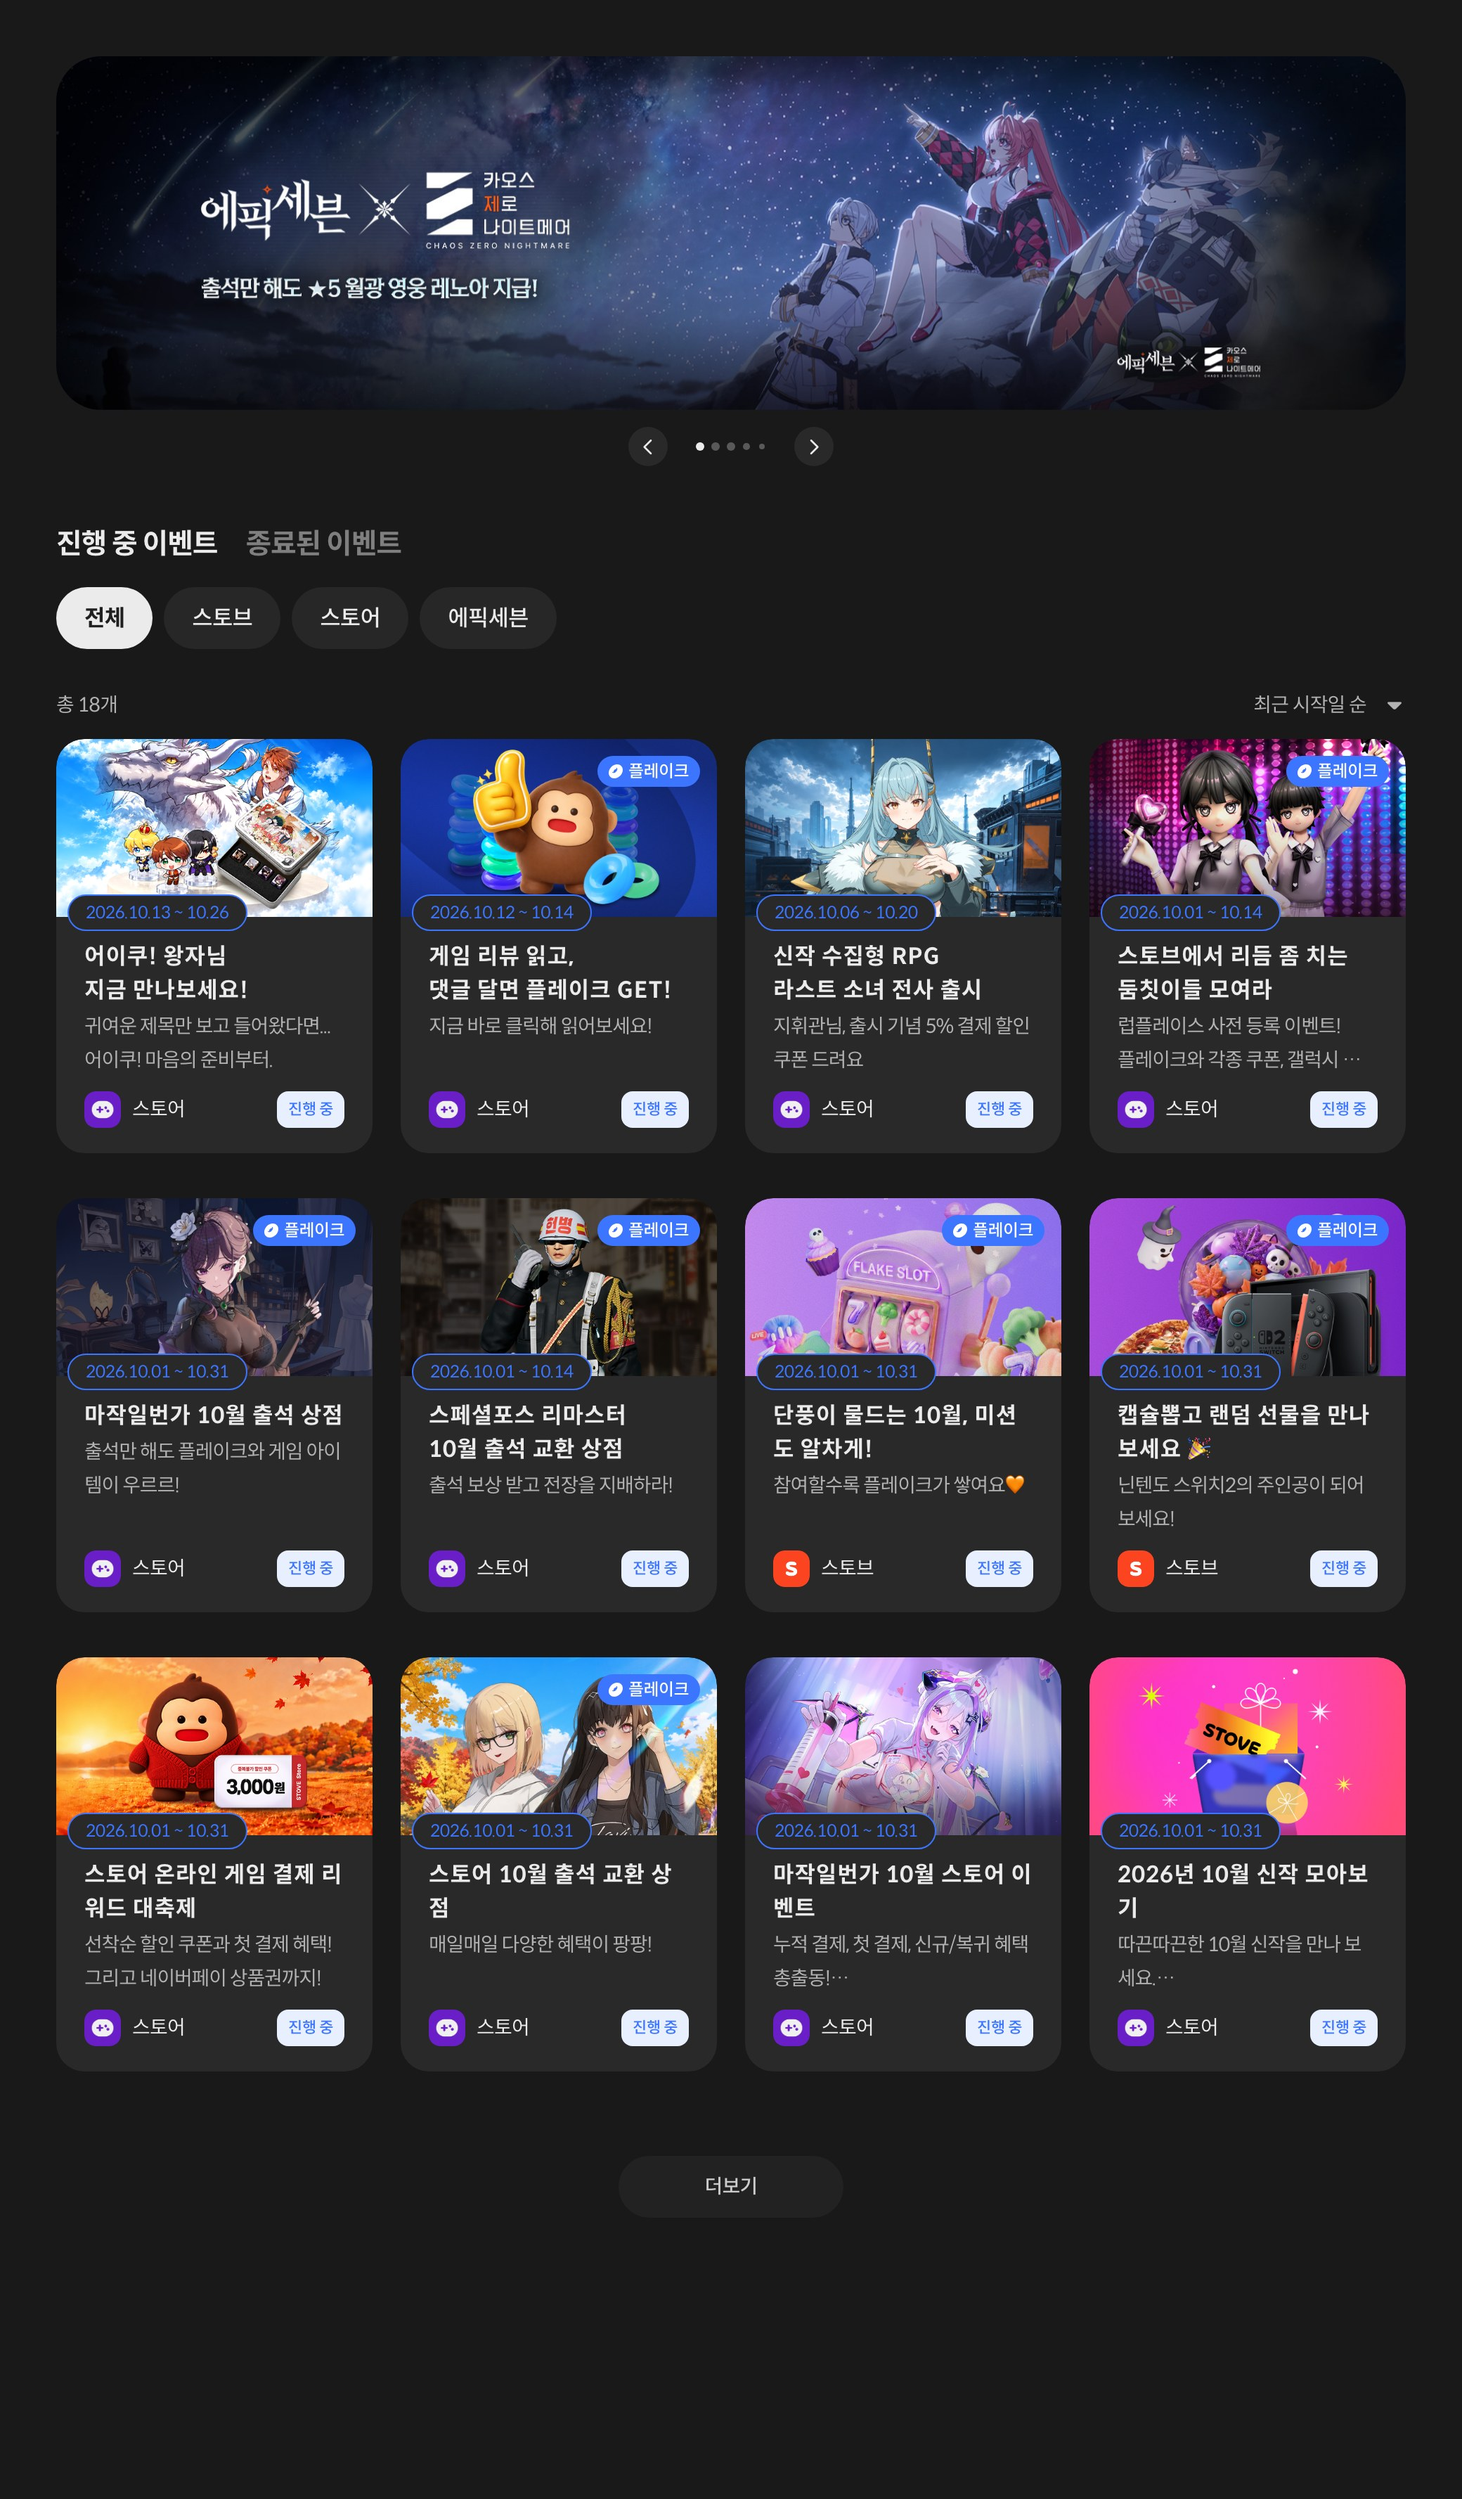
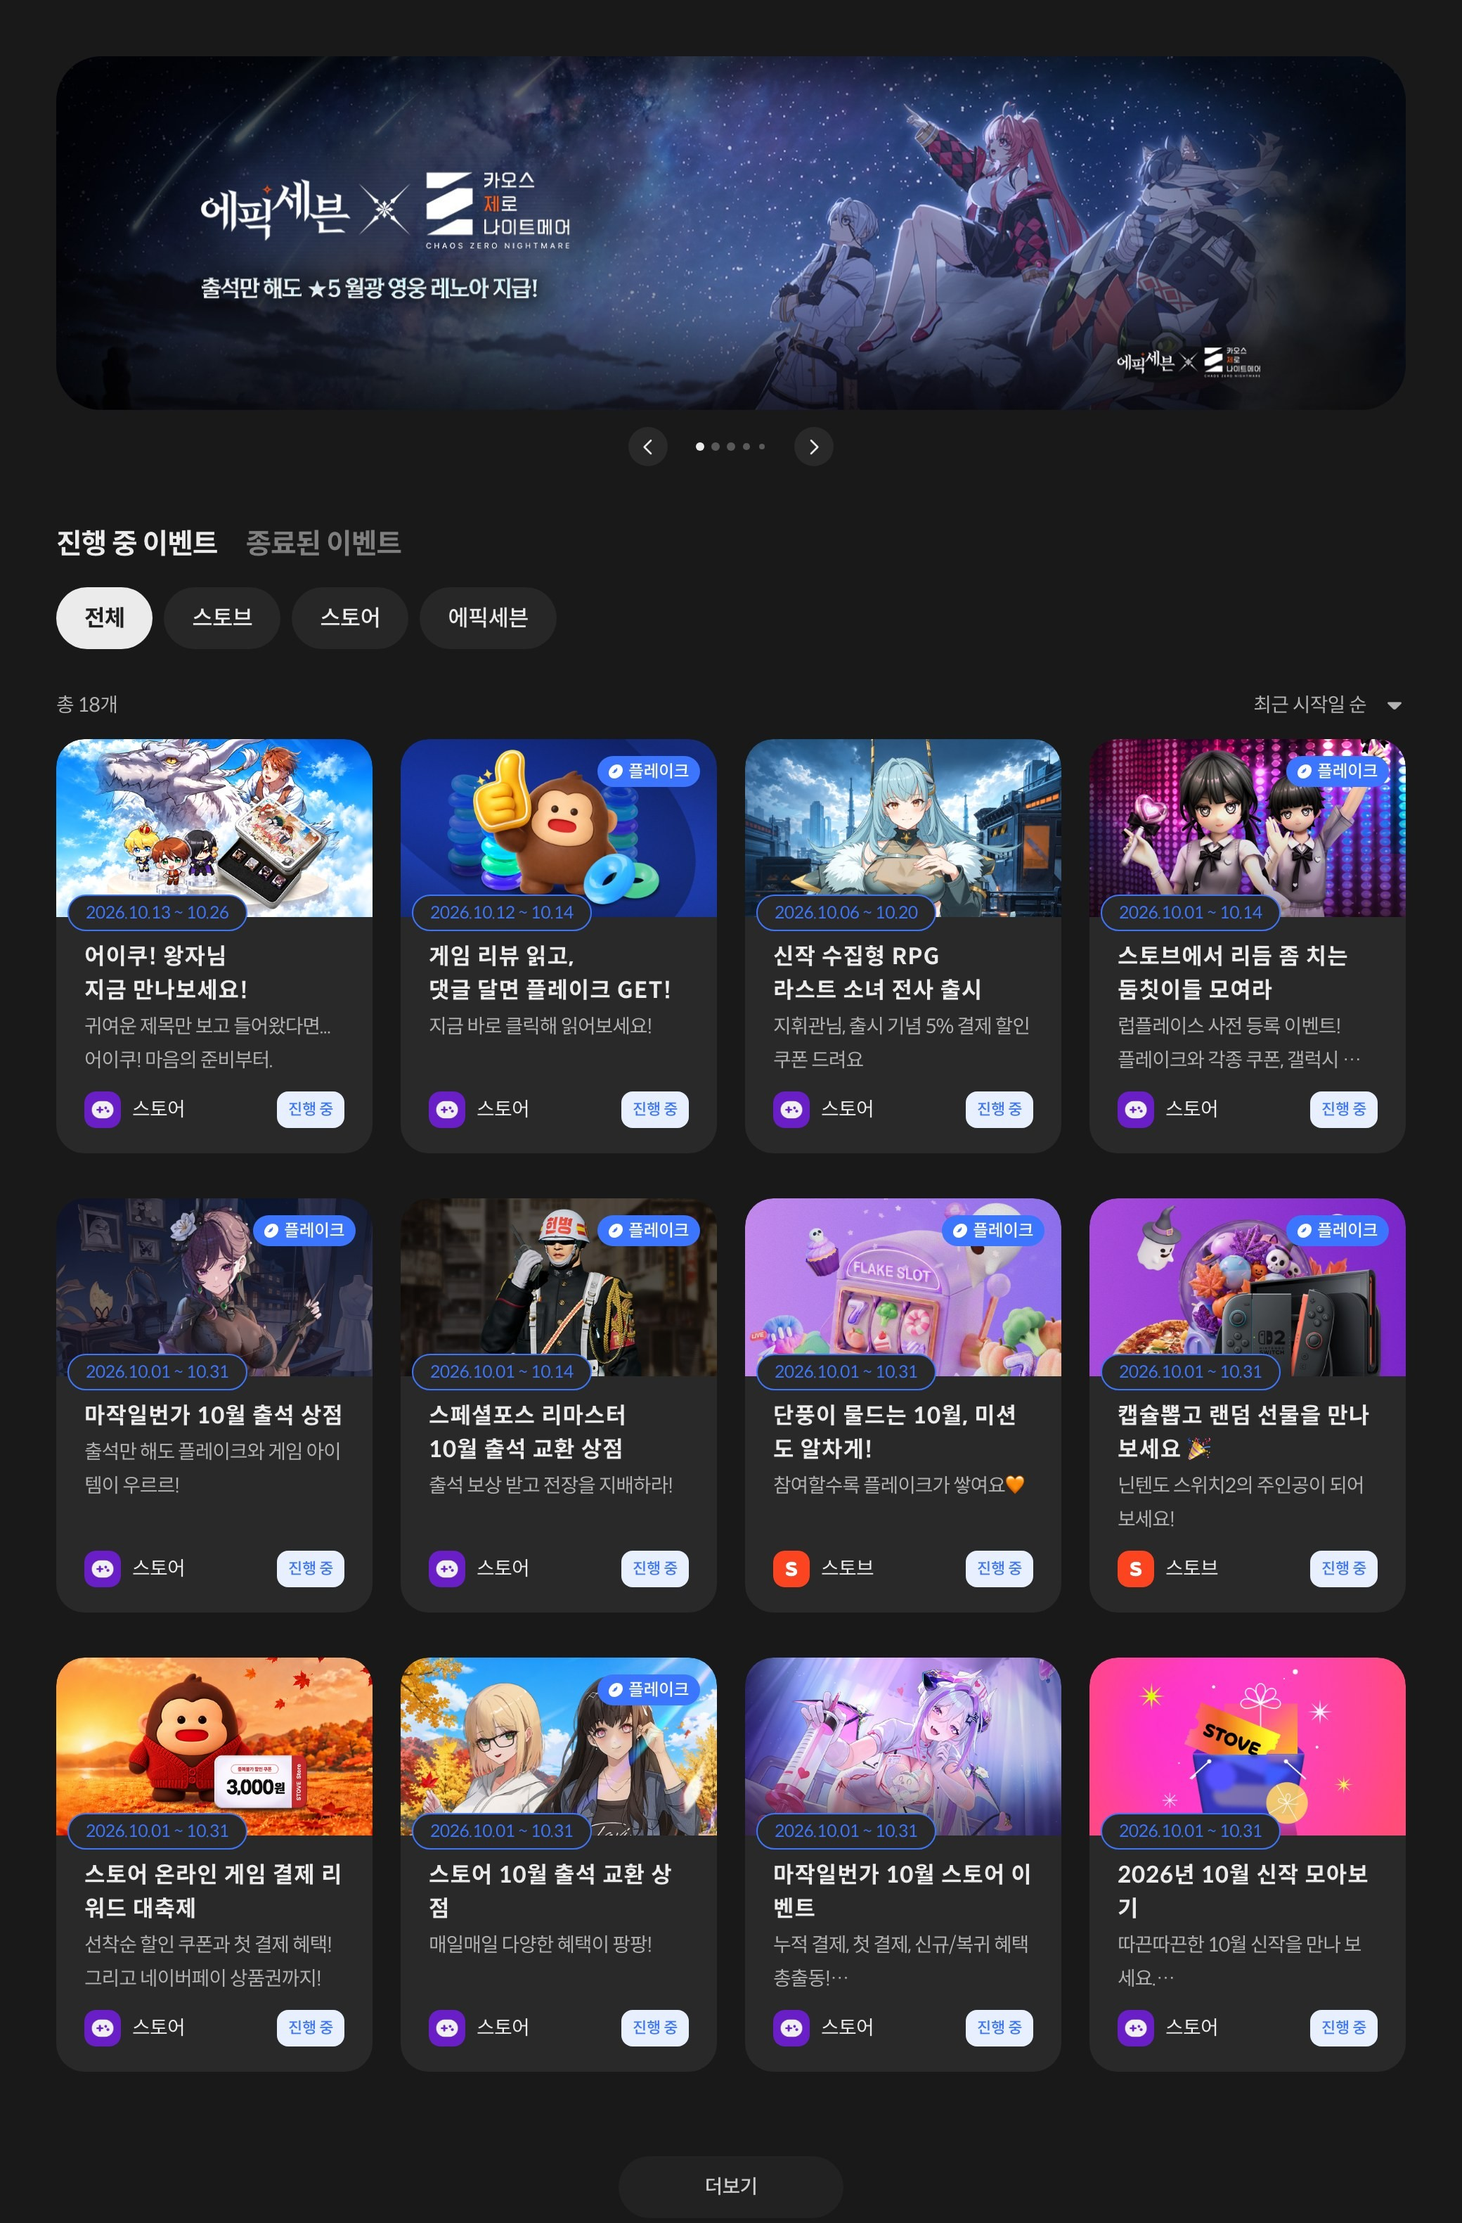
Fix doubled bottom margin on event page
The event screenshot already had 200px of empty space baked in below
the "더보기" button, and .main added another 200px of padding on top
of it, making the gap look twice as wide as intended. Trimmed the
baked-in whitespace from the image so the CSS padding is the only
source of the 200px gap.

diff --git a/event.html b/event.html
@@ -48,7 +48,7 @@
 
     <!-- ============ MAIN (이벤트 정적 스크린샷 — 다크모드 고정) ============ -->
     <div class="main">
-      <img class="event-preview" src="assets/event-preview-dark.jpg?v=1" alt="STOVE 이벤트 (다크모드 미리보기)" />
+      <img class="event-preview" src="assets/event-preview-dark.jpg?v=2" alt="STOVE 이벤트 (다크모드 미리보기)" />
     </div>
 
   </div>
